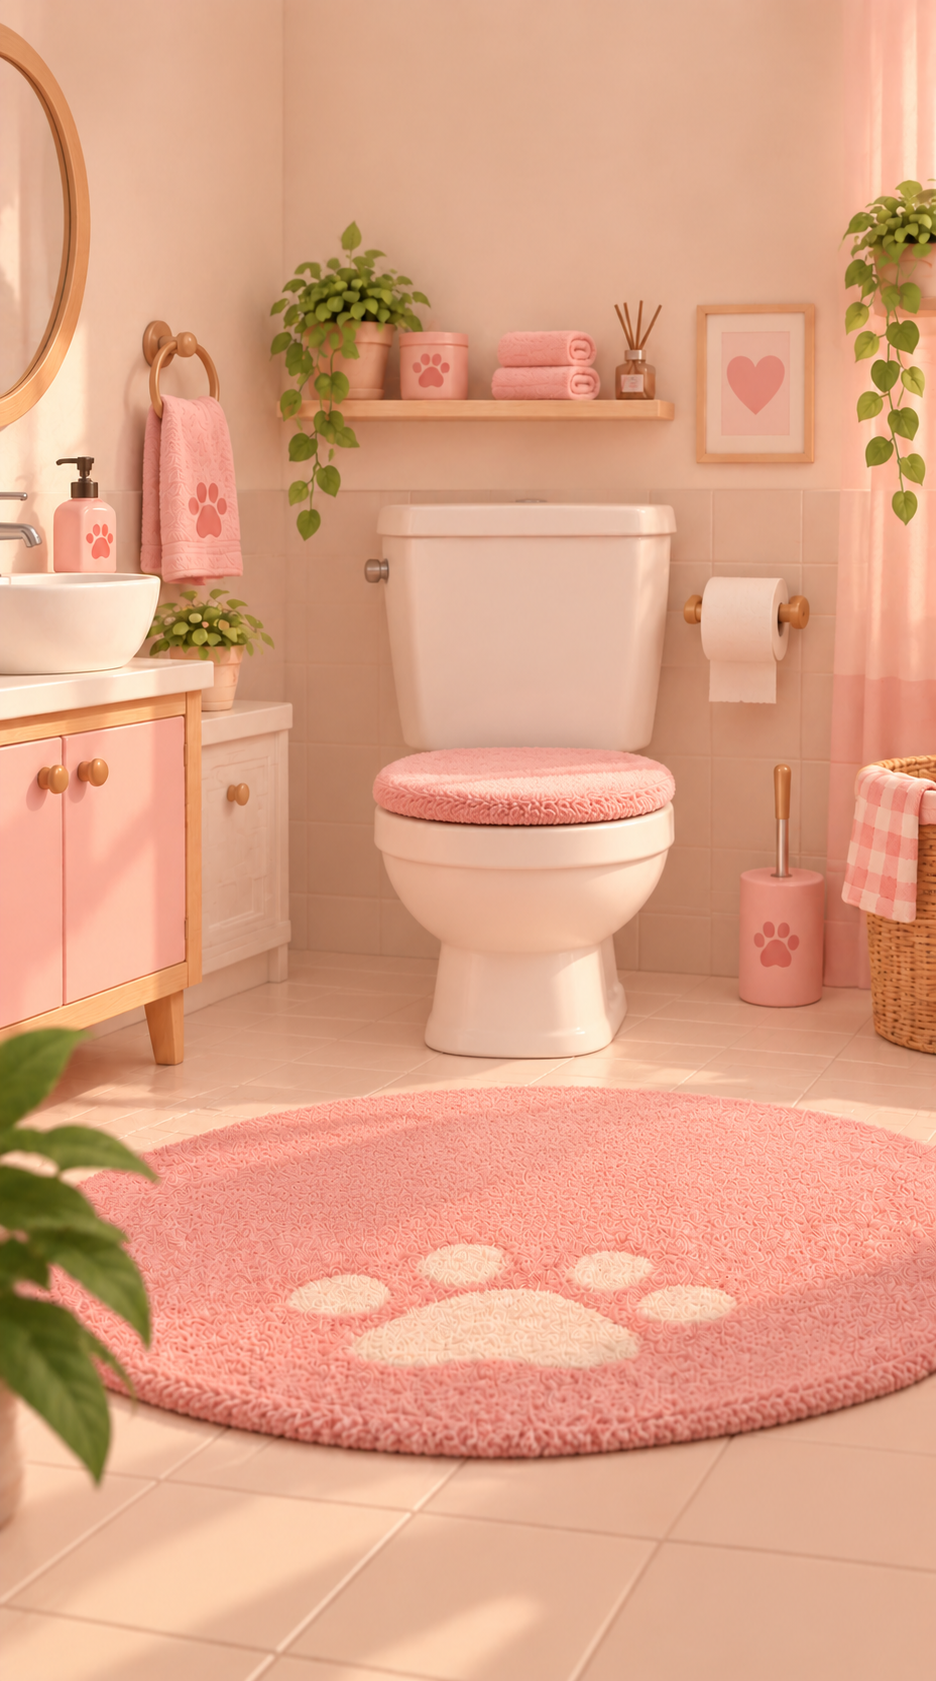
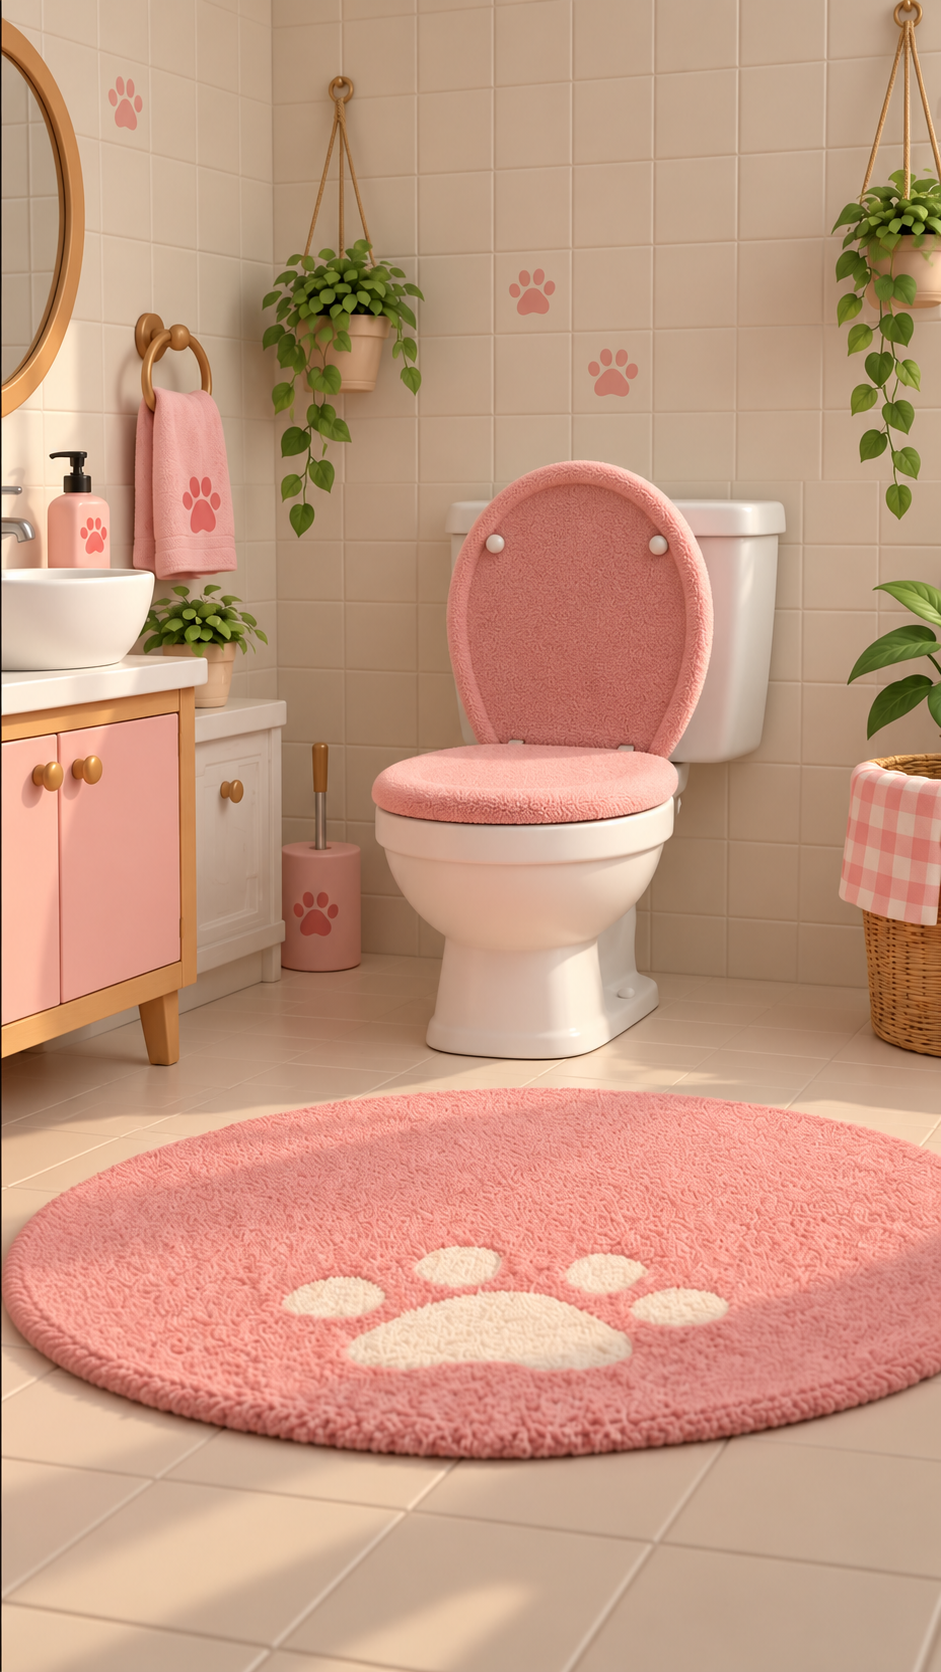
fix: Keep UI elements visible during toilet video play and prevent eating image on finish

diff --git a/lib/presentation/screens/home_screen.dart b/lib/presentation/screens/home_screen.dart
@@ -138,6 +138,12 @@ class _HomeScreenState extends State<HomeScreen> {
               color: GameColors.sky.withValues(alpha: 0.08),
             ),
           ),
+          if (_isPlayingToiletVideo)
+            Positioned.fill(
+              child: _ToiletVideoOverlay(
+                onFinished: _onToiletVideoFinished,
+              ),
+            ),
           SafeArea(
             bottom: false,
             child: Padding(
@@ -209,12 +215,6 @@ class _HomeScreenState extends State<HomeScreen> {
               onFoodDropped: _feedAt,
             ),
           ),
-          if (_isPlayingToiletVideo)
-            Positioned.fill(
-              child: _ToiletVideoOverlay(
-                onFinished: _onToiletVideoFinished,
-              ),
-            ),
         ],
       ),
     );
@@ -234,6 +234,7 @@ class _HomeScreenState extends State<HomeScreen> {
     setState(() {
       _isPlayingToiletVideo = true;
     });
+    _game.setPetVisible(false);
   }
 
   void _onToiletVideoFinished() {
@@ -242,7 +243,7 @@ class _HomeScreenState extends State<HomeScreen> {
       _isPlayingToiletVideo = false;
       petStats = _statRules.clean(petStats);
     });
-    _game.reactToFood();
+    _game.setPetVisible(true);
   }
 
   void _sleepPet() {
